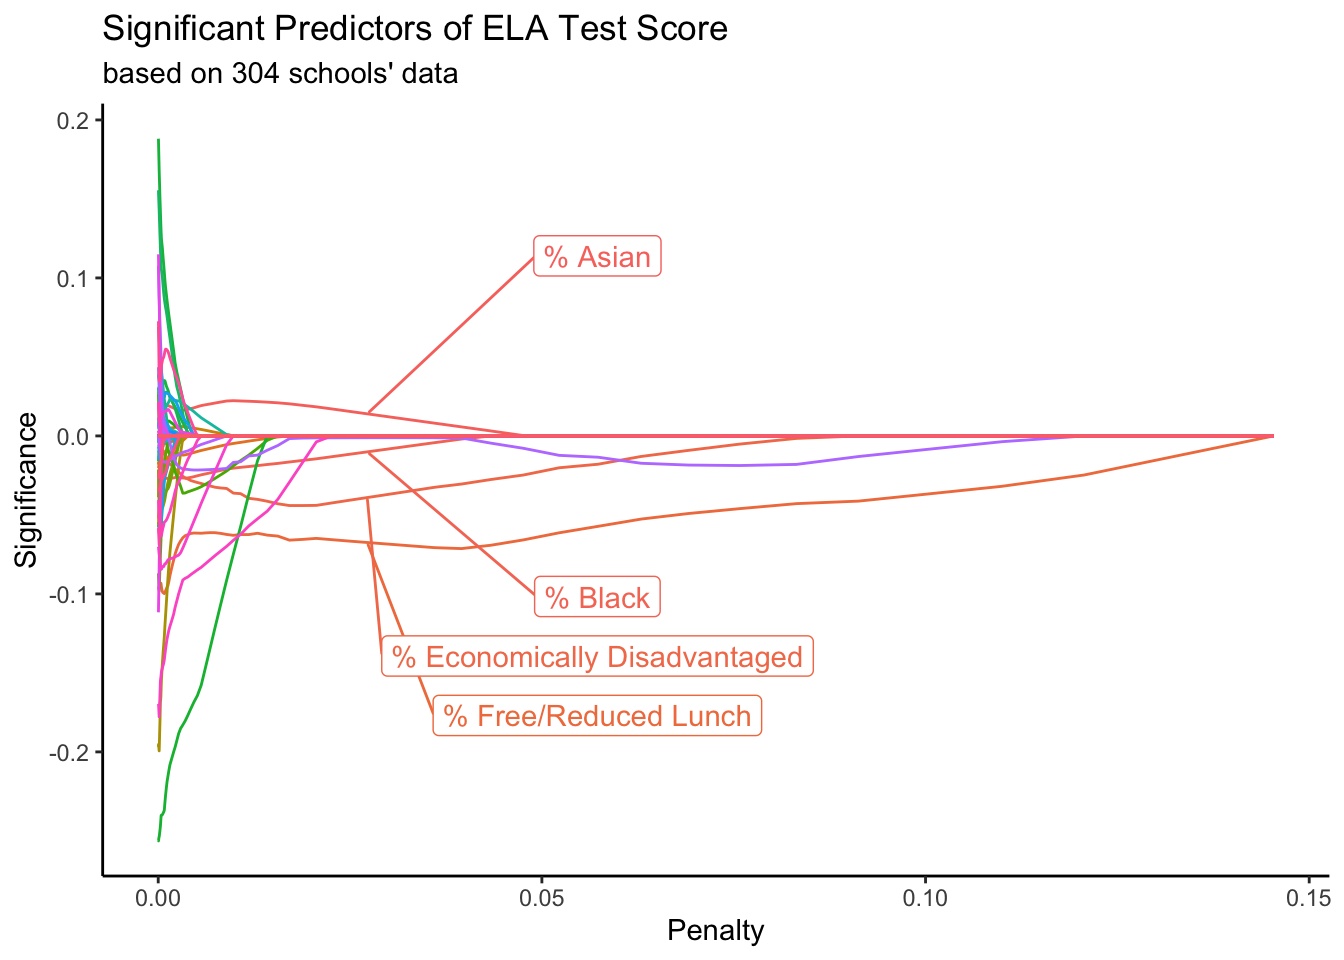
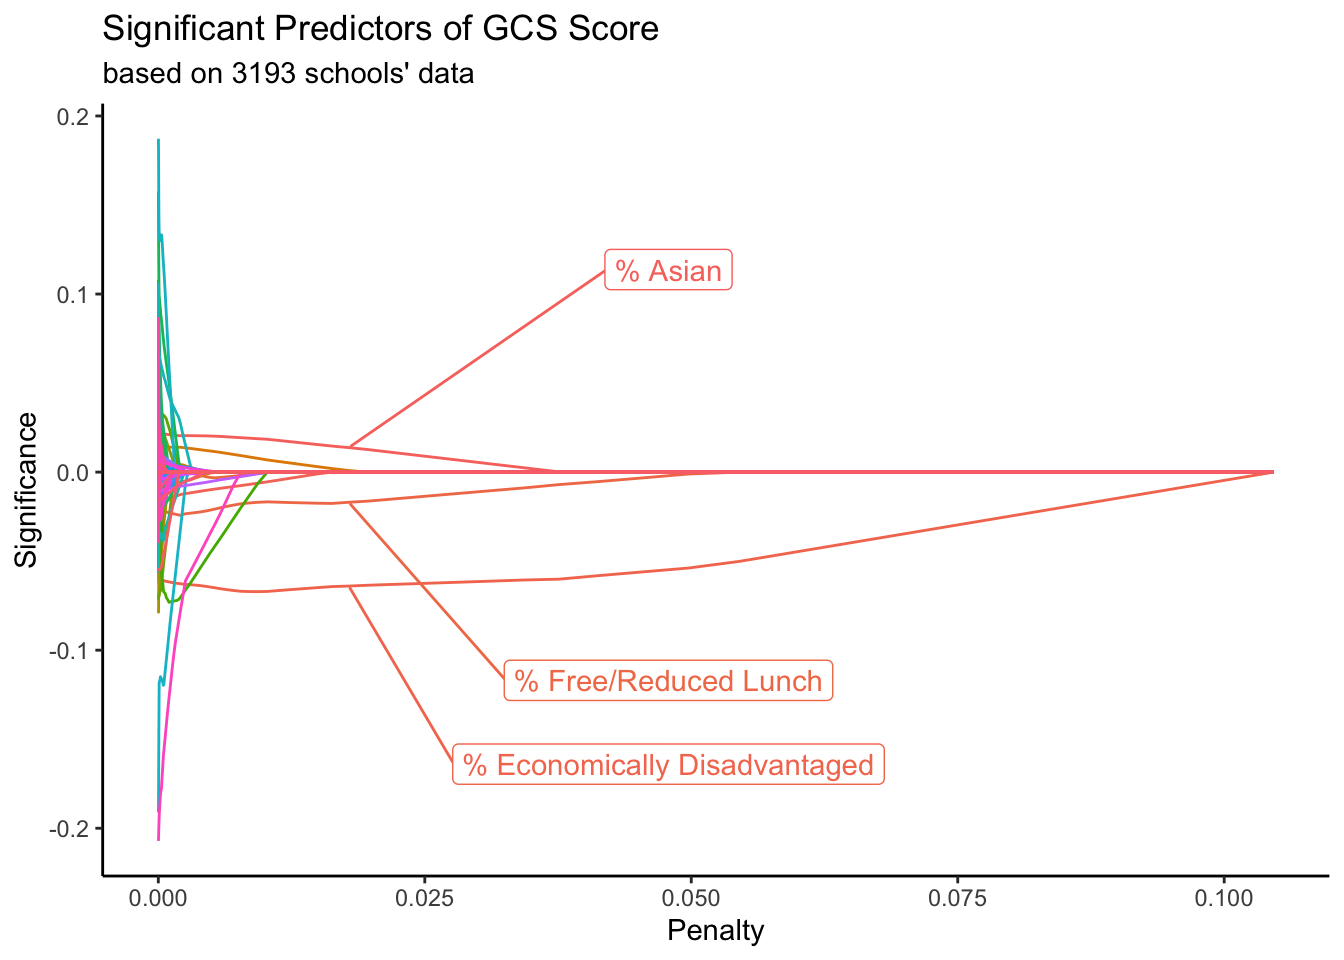
manifest deployment

diff --git a/docs/data.html b/docs/data.html
@@ -215,7 +215,7 @@ This contains data on Mathematics and English Language Arts growth by school and
 <p>In this analysis, we focused on using Grade Cohort Standardized scores, which is a metric created by the SEDA project, and growth score (?), both at county- and school-level. Additionally, we also considered school-level test scores in various subjects, including English, Science, and Physical Education (PE).</p>
 <p><strong>Grade Cohort Standardized (GCS) scores</strong>: According to the Stanford Codebook, “[t]he GCS scale standardizes the unit means relative to the average difference in NAEP scores between students one grade level apart” <span class="citation" data-cites="seda_methods">(<a href="#ref-seda_methods" role="doc-biblioref"><span>“Methods: How SEDA Produced Estimates of Student Performance That Are Comparable Across Places, Grades, and Years.”</span> 2022</a>)</span>. NAEP stands for National Assessment of Educational Progress, which is an assessment program in the United States that aiming to assess and measure the academic performance of students across different subjects and grades, generally referred to as the Nation’s Report Card <span class="citation" data-cites="naep_definition">(<a href="#ref-naep_definition" role="doc-biblioref"><span>“About NAEP”</span> 2023</a>)</span>. The GCS scale allows users to understand one unit as being equivalent to one grade level. In Grade 3, the national average performance is 3 units, while in Grade 4, it is 4 units, and so on. Here are two brief examples to interpreting GCS values: If 4th-grade students at the school of interest have a GCS value of 5.03, these students’ scores indicate a level equivalent to 5th-grade, which is about one grade level higher than the national average (the reference group) in math. Vice versa, if 3rd-grade students at the school of interest have a GCS value of 2.39, these students’ reading scores indicate a level about half a grade level lower than the national average for 3rd-grade students <span class="citation" data-cites="seda_methods">(<a href="#ref-seda_methods" role="doc-biblioref"><span>“Methods: How SEDA Produced Estimates of Student Performance That Are Comparable Across Places, Grades, and Years.”</span> 2022</a>)</span>. GCS values are aggregated over the years of 2009, 2011, 2013, and 2015, and and are collected at school- and county-level.</p>
 <p><strong>Growth score</strong>: Aggregate growth scores are available for English and Mathematics broken down by school and student group. They measure how close the students growth is to their expected growth. A growth score of 100 indicates students are meeting expected growth; below 100 indicates growth below expectations; and above 100 indicates growth above expectations. Since the scores measure growth they are based on multiple years of testing data: the 2016-17, 2017-18, and 2018-19 school years. Pandemic disruption means that the current growth scores are not actionable. Growth scores will be released again in 2024. Nevertheless, the scores are still useful for our analysis.</p>
-<p><strong>Subject-specific test scores</strong>: We obtained data on test scores for various subjects, including English, Science, and PE. During our initial investigation, after joining these test score datasets with the SEDA and funding data, we saw that the test scores only matched up with a very small percentage of schools in our dataset. Further investigation shows that the test scores are only collected in the East Bay area and various northern CA counties. Since it is desirable to have a full coverage of state scores for the subsequent analysis and modeling process, we would only use these datasets in a small part of the analysis and will be mindful when discussing our results.</p>
+<p><strong>Subject-specific test scores</strong>: We obtained data on test scores for various subjects, including English, Science, and PE. During our initial investigation, after joining these test score datasets with the SEDA and funding data, we saw that the test scores only matched up with a very small percentage of schools in our dataset. Further investigation shows that the test scores are only collected in the East Bay area and various northern CA counties. Since it is desirable to have a full coverage of state scores for the subsequent analysis and modeling process, we decided not to use the subject-specific test score datasets and focused mainly on GCS and growth scores as the main achievement proxies.</p>
 <section id="a-comparison-of-different-performance-metrics" class="level2">
 <h2 class="anchored" data-anchor-id="a-comparison-of-different-performance-metrics">A comparison of different performance metrics</h2>
 <div class="cell">

diff --git a/docs/model.html b/docs/model.html
@@ -132,7 +132,7 @@ ul.task-list li input[type="checkbox"] {
   </ul></li>
   <li><a href="#results" id="toc-results" class="nav-link" data-scroll-target="#results">Results</a>
   <ul class="collapse">
-  <li><a href="#ela-and-gcs-scores" id="toc-ela-and-gcs-scores" class="nav-link" data-scroll-target="#ela-and-gcs-scores">ELA and GCS Scores</a></li>
+  <li><a href="#grade-cohort-standardized-gcs-scores" id="toc-grade-cohort-standardized-gcs-scores" class="nav-link" data-scroll-target="#grade-cohort-standardized-gcs-scores">Grade Cohort Standardized (GCS) Scores</a></li>
   <li><a href="#ela-math-growth-scores" id="toc-ela-math-growth-scores" class="nav-link" data-scroll-target="#ela-math-growth-scores">ELA &amp; Math Growth Scores</a></li>
   </ul></li>
   </ul>
@@ -212,15 +212,12 @@ ul.task-list li input[type="checkbox"] {
 </section>
 <section id="results" class="level1">
 <h1>Results</h1>
-<section id="ela-and-gcs-scores" class="level2">
-<h2 class="anchored" data-anchor-id="ela-and-gcs-scores">ELA and GCS Scores</h2>
-<p>First, we examine the significant predictors for the average ELA Test score and GCS Score for each school. Based on these graphs, we observe that the percentage of students who are Asian and Black are relatively strong predictors. However, the most significant predictors are the percentage of students receiving free/reduced lunch and the percentage of students considered economically disadvantaged.</p>
+<section id="grade-cohort-standardized-gcs-scores" class="level2">
+<h2 class="anchored" data-anchor-id="grade-cohort-standardized-gcs-scores">Grade Cohort Standardized (GCS) Scores</h2>
+<p>First, we examine the significant predictors for the GCS Score at school level. The LASSO graph shows that the percentage of students who are Asian is a relatively strong predictor. However, the most significant predictors are the percentage of students receiving free/reduced lunch and the percentage of students considered economically disadvantaged.</p>
 <div class="cell">
 <div class="cell-output-display">
 <p><img src="model_files/figure-html/perform lasso pt1-1.png" class="img-fluid" width="672"></p>
-</div>
-<div class="cell-output-display">
-<p><img src="model_files/figure-html/perform lasso pt1-2.png" class="img-fluid" width="672"></p>
 </div>
 </div>
 </section>

diff --git a/docs/result.html b/docs/result.html
@@ -123,7 +123,8 @@ ul.task-list li input[type="checkbox"] {
     <h2 id="toc-title">On this page</h2>
    
   <ul>
-  <li><a href="#add-result-here" id="toc-add-result-here" class="nav-link active" data-scroll-target="#add-result-here">Add result here</a></li>
+  <li><a href="#what-did-we-find-and-what-do-they-mean" id="toc-what-did-we-find-and-what-do-they-mean" class="nav-link active" data-scroll-target="#what-did-we-find-and-what-do-they-mean">What did we find, and what do they mean?</a></li>
+  <li><a href="#moving-forward" id="toc-moving-forward" class="nav-link" data-scroll-target="#moving-forward">Moving forward</a></li>
   </ul>
 </nav>
     </div>
@@ -168,10 +169,20 @@ ul.task-list li input[type="checkbox"] {
 <div class="cell">
 
 </div>
-<section id="add-result-here" class="level1">
-<h1>Add result here</h1>
+<section id="what-did-we-find-and-what-do-they-mean" class="level1">
+<h1>What did we find, and what do they mean?</h1>
 <ul>
-<li>Growth score is pretty robust since there are no variables that actually predict it.</li>
+<li><p>A paragraph summarizing county- and school-level insights</p></li>
+<li><p>A paragraph on adjusting funding and how important it is to be mindful of that or else they’ll be misinformation</p></li>
+<li><p>A paragraph on LASSO results and talk about the big picture of the results</p></li>
+<li><p>Growth score is pretty robust since there are no variables that actually predict it.</p></li>
+</ul>
+</section>
+<section id="moving-forward" class="level1">
+<h1>Moving forward</h1>
+<ul>
+<li><p>What are some of the next steps?</p></li>
+<li><p>What should we have done differently?</p></li>
 </ul>
 
 
